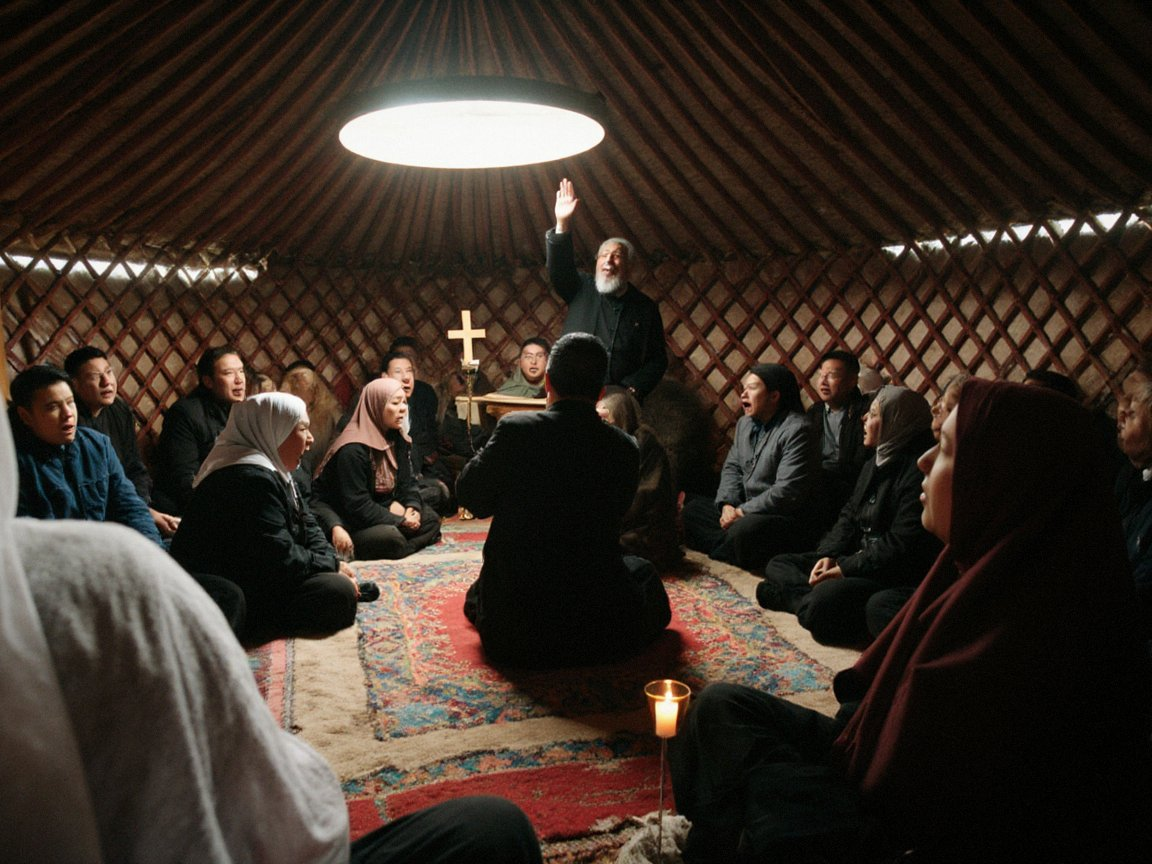
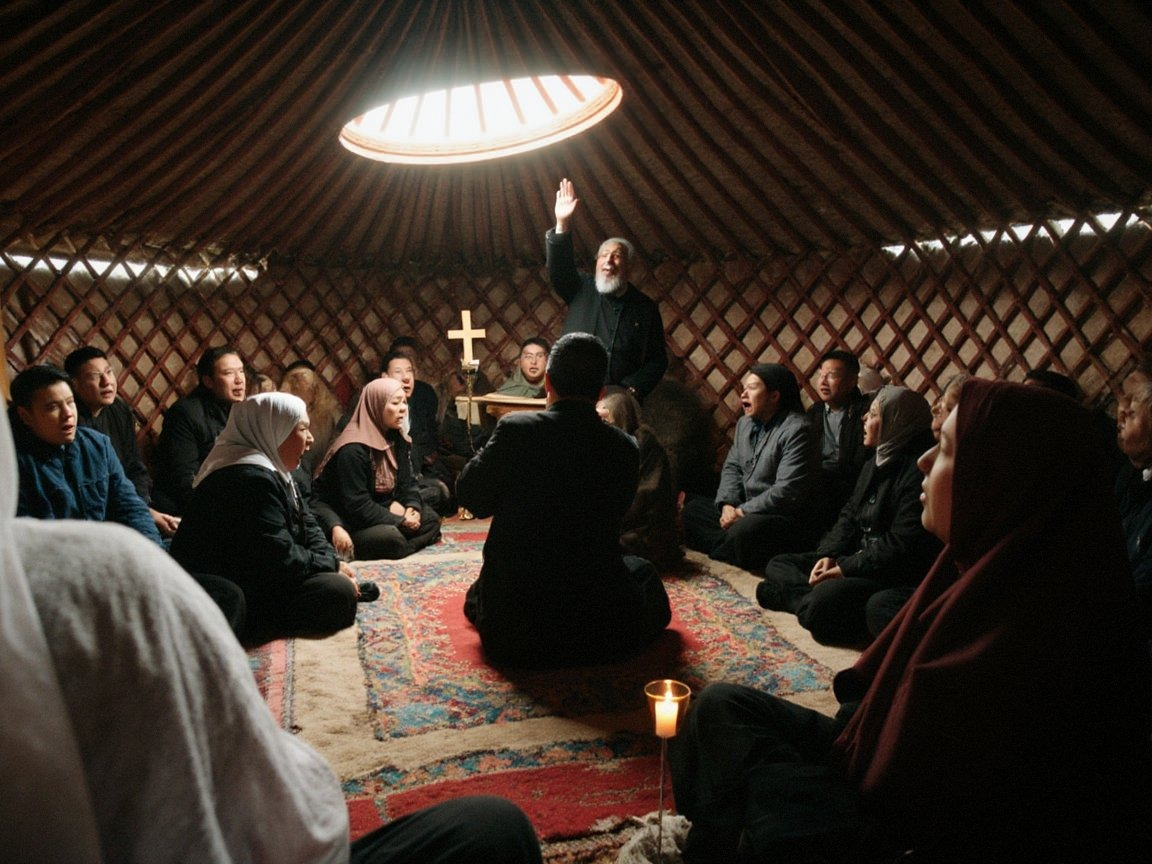
New et photo; yurt roof crown and cradle feather retouches

Changed region(s): [[0.2812, 0.0625, 0.5625, 0.2188]]

diff --git a/wiki/Üch_Ün.html b/wiki/Üch_Ün.html
@@ -14,7 +14,7 @@
 <meta property="og:description" content="Üch ün (Iradi, &quot;three voices&quot;) is the three-part singing of Iradi hymns in the yurt liturgies of the highland clans. A lead voice (bash ün) and a middle voice…">
 <meta property="og:url" content="https://irad.wiki/wiki/%C3%9Cch_%C3%9Cn">
 <meta property="og:image" content="https://irad.wiki/images/Uch_Un_yurt_liturgy.jpg">
-<meta property="og:image:alt" content="Herders sit and stand in a yurt singing together, with a priest small at the far side by a table with a cross.">
+<meta property="og:image:alt" content="Herders sit and stand in a yurt singing together under the open roof crown, with a priest small at the far side by a table with a cross.">
 <meta property="og:locale" content="en_US">
 <meta name="twitter:card" content="summary_large_image">
 <meta name="twitter:title" content="Üch Ün – Irad Wiki">
@@ -90,7 +90,7 @@
 <div class="title-row"><h1 class="firstHeading">Üch Ün</h1></div>
 <div class="siteSub">From Irad Wiki, the free encyclopedia</div>
 <div class="prose">
-<figure class="thumb lead" style="width:308px"><img src="/images/Uch_Un_yurt_liturgy.jpg" width="300" alt="Herders sit and stand in a yurt singing together, with a priest small at the far side by a table with a cross."><figcaption>Highland herders singing <i>üch ün</i> at a yurt liturgy in the <a class="wl" href="/wiki/Chatkal_Range" title="Chatkal Range">Chatkal</a></figcaption></figure>
+<figure class="thumb lead" style="width:308px"><img src="/images/Uch_Un_yurt_liturgy.jpg" width="300" alt="Herders sit and stand in a yurt singing together under the open roof crown, with a priest small at the far side by a table with a cross."><figcaption>Highland herders singing <i>üch ün</i> at a yurt liturgy in the <a class="wl" href="/wiki/Chatkal_Range" title="Chatkal Range">Chatkal</a></figcaption></figure>
 <p><strong>Üch ün</strong> (Iradi, &quot;three voices&quot;) is the three-part singing of Iradi hymns in the yurt liturgies of the highland clans. A lead voice (<em>bash ün</em>) and a middle voice (<em>orto ün</em>) move over a sustained bass (<em>bas</em>), and singers in the Chatkal valley add a high, yodelling part called <em>kekilik ün</em> (&quot;partridge voice&quot;). The churches of the cities and of <a class="wl" href="/wiki/Iy%C4%B1k_Janyl" title="Iyık Janyl">Iyık Janyl</a> sing the monophonic <a class="ext" href="https://en.wikipedia.org/wiki/Syriac_language" rel="noopener">Syriac</a> chant of the East Syriac rite.<sup>[1]</sup></p>
 <p>The style has never been written down. After 1992 it became a mark of the clans of the <a class="wl" href="/wiki/Autonomous_Tribal_Regions" title="Autonomous Tribal Regions">Autonomous Tribal Regions</a>, and city clergy have called it untidy. Field recordings made by <a class="wl" href="/wiki/Talas_State_University" title="Talas State University">Talas State University</a> are held in the <a class="wl" href="/wiki/State_Archives_of_Irad" title="State Archives of Irad">State Archives of Irad</a>, and the <a class="wl" href="/wiki/Mor-Folk" title="Mor-Folk">Mor-Folk</a> ensemble <a class="wl" href="/wiki/Eski_%C3%9Cn" title="Eski Ün">Eski Ün</a> has used it.<sup>[2]</sup></p>
 <h2>References</h2>
